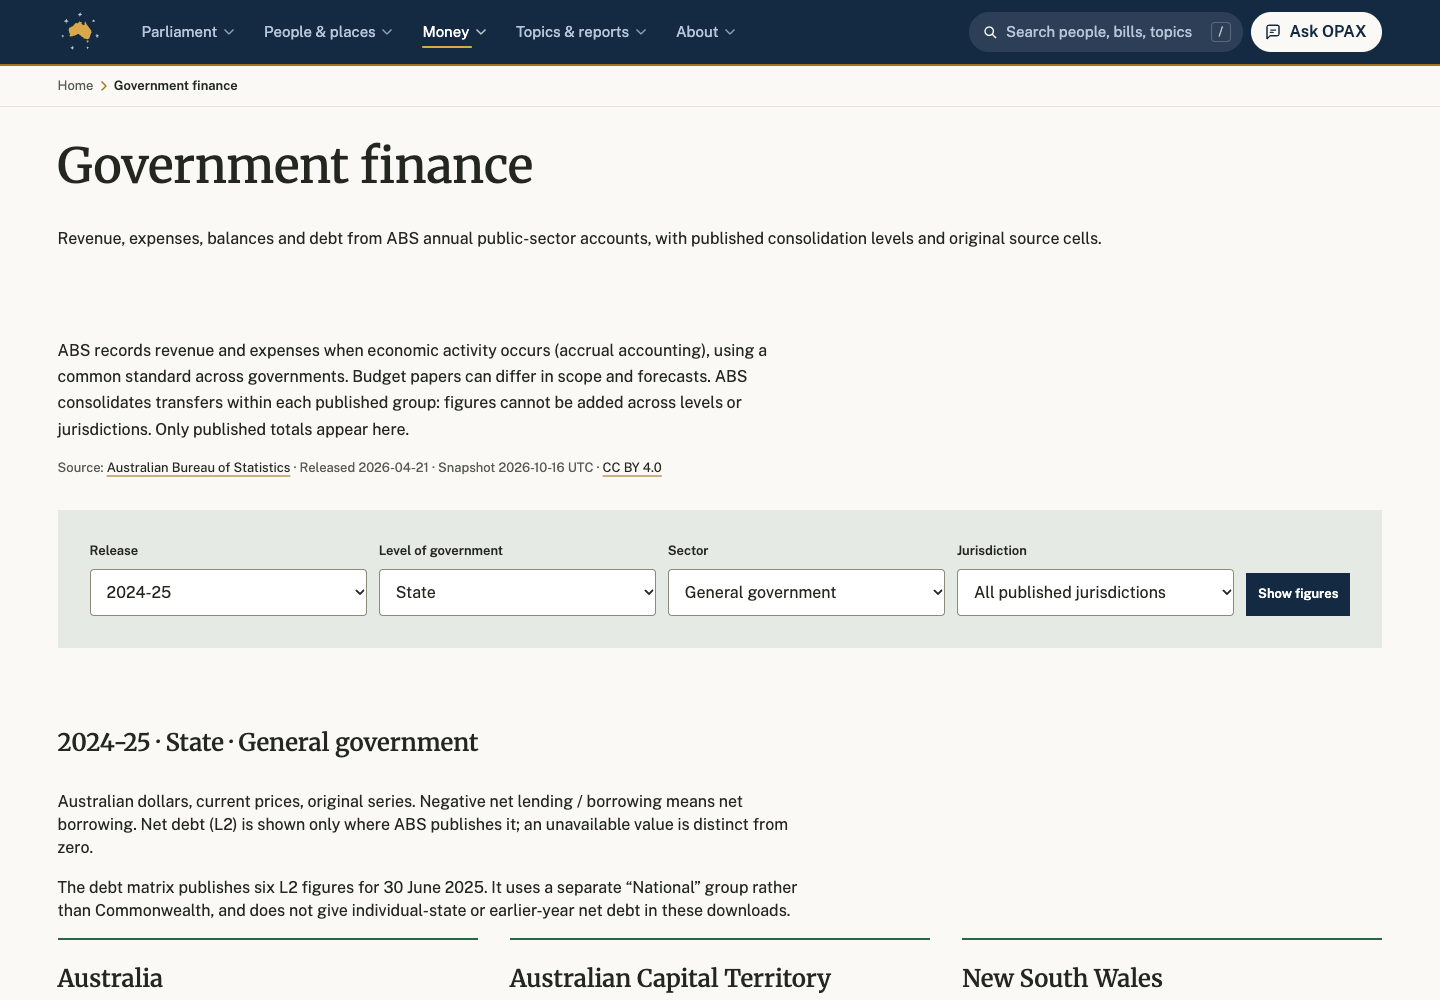
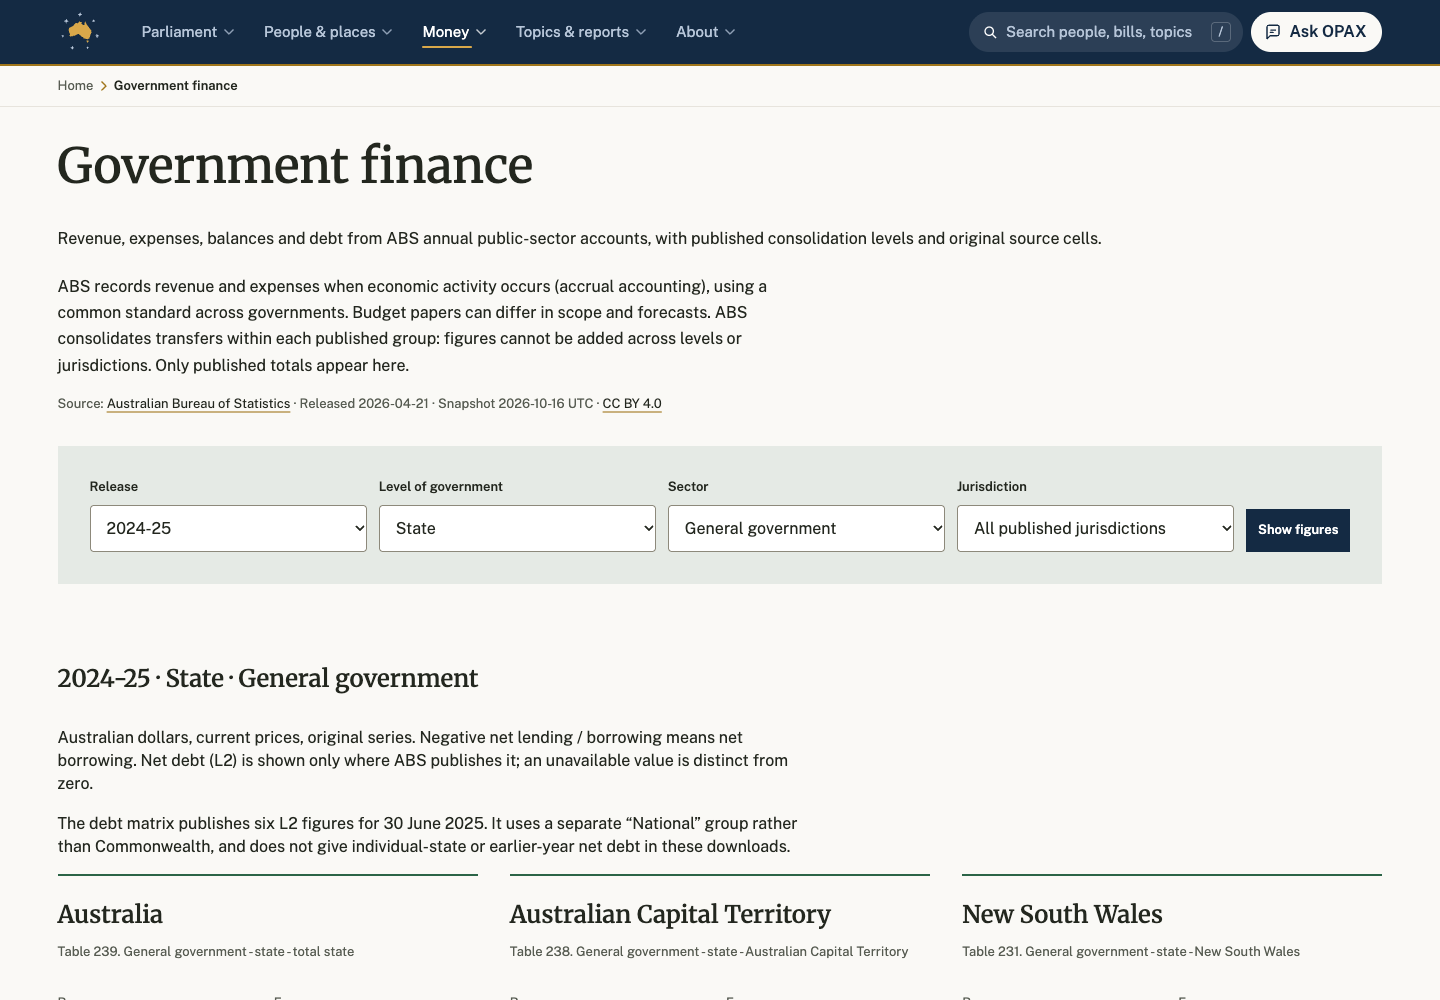
Fix GFS phone table and dependent selectors

diff --git a/portal/src/government-finance.ts b/portal/src/government-finance.ts
@@ -59,15 +59,28 @@ export async function governmentFinancePage(url:URL,read:Read,block:Block){
   try{h=await read()}catch{return error(503,'The reviewed government finance snapshot is unavailable.')}
   const all=clearedGovernmentFinance(h)
   if(!all.length)return error(503,'The reviewed government finance snapshot is unavailable.')
-  const choices=(key:keyof GFSRow)=>[...new Set(all.map(r=>String(r[key])))].sort()
-  const releases=choices('release'),levels=choices('level_of_government'),sectors=choices('sector')
-  const release=url.searchParams.get('release')||releases.at(-1)!,level=url.searchParams.get('level')||'State',sector=url.searchParams.get('sector')||'General government'
-  const jurisdiction=url.searchParams.get('jurisdiction')||''
-  const jurisdictions=[...new Set(all.filter(r=>r.release===release && r.level_of_government===level && r.sector===sector).map(r=>r.jurisdiction))].sort()
+  const choices=(rows:GFSRow[],key:keyof GFSRow)=>[...new Set(rows.map(r=>String(r[key])))].sort()
+  const releases=choices(all,'release')
+  const release=url.searchParams.get('release')||releases.at(-1)!
+  const requestedLevel=url.searchParams.get('level')||'State',requestedSector=url.searchParams.get('sector')||'General government'
+  const requestedJurisdiction=url.searchParams.get('jurisdiction')||''
   const tableKeys=['q','sort','page','pageSize','f.reference_year','f.measure'].map(k=>'gfs.'+k)
   const allowed=new Set(['release','level','sector','jurisdiction',...tableKeys])
-  if([...url.searchParams.keys()].some(k=>!allowed.has(k)||url.searchParams.getAll(k).length!==1) || !releases.includes(release) || !levels.includes(level) || !sectors.includes(sector)
-    || jurisdiction && !jurisdictions.includes(jurisdiction))return error(400,'Choose a published release, government level, jurisdiction and sector.')
+  if([...url.searchParams.keys()].some(k=>!allowed.has(k)||url.searchParams.getAll(k).length!==1) || !releases.includes(release)
+    || url.searchParams.has('level') && !choices(all,'level_of_government').includes(requestedLevel)
+    || url.searchParams.has('sector') && !choices(all,'sector').includes(requestedSector)
+    || requestedJurisdiction && !choices(all,'jurisdiction').includes(requestedJurisdiction))return error(400,'Choose a published release, government level, jurisdiction and sector.')
+  // Higher-level choices take priority. A previously published lower-level
+  // selection can become stale after a release/level change; reset it in order.
+  const released=all.filter(r=>r.release===release),levels=choices(released,'level_of_government')
+  const level=levels.includes(requestedLevel)?requestedLevel:levels[0]
+  const levelRows=released.filter(r=>r.level_of_government===level),sectors=choices(levelRows,'sector')
+  const sector=sectors.includes(requestedSector)?requestedSector:sectors[0]
+  const sectorRows=levelRows.filter(r=>r.sector===sector),jurisdictions=choices(sectorRows,'jurisdiction')
+  const jurisdiction=!requestedJurisdiction?'':jurisdictions.includes(requestedJurisdiction)?requestedJurisdiction:jurisdictions[0]
+  if(level!==requestedLevel)url.searchParams.set('level',level)
+  if(sector!==requestedSector)url.searchParams.set('sector',sector)
+  if(jurisdiction!==requestedJurisdiction)url.searchParams.set('jurisdiction',jurisdiction)
   const selected=all.filter(r=>r.release===release && r.level_of_government===level && r.sector===sector && (!jurisdiction || r.jurisdiction===jurisdiction))
   const latest=[...new Set(selected.map(r=>r.reference_year))].sort().at(-1)
   const latestRows=selected.filter(r=>r.reference_year===latest)
@@ -77,7 +90,7 @@ export async function governmentFinancePage(url:URL,read:Read,block:Block){
   const cards=[...new Set(latestRows.map(r=>r.jurisdiction))].sort().map(j=>{
     const rows=latestRows.filter(r=>r.jurisdiction===j)
     const sources=[...new Map(rows.map(r=>[r.workbook,r])).values()]
-    return `<article class="gfs-jurisdiction"><h3>${esc(j)}</h3><p class="gfs-receipt">${esc((rows.find(r=>r.measure==='revenue')||rows[0]).consolidation)}</p><dl>${Object.entries(names).map(([key,label])=>{const r=rows.find(r=>r.measure===key);return `<div><dt>${label}</dt><dd>${r&&r.value!==null?cellLink(r):'Not published'}</dd></div>`}).join('')}</dl>${receipt(h,releaseDate)}<details><summary>Original cells and source hashes</summary>${rows.map(r=>`<p><a href="${esc(r.source_url)}">${esc(names[r.measure])} · ${esc(r.sheet+'!'+r.cell)}</a></p>`).join('')}${sources.map(r=>`<p>${esc(r.workbook)} · Snapshot ${esc(r.snapshot)}<br>SHA-256 ${esc(r.sha256)}</p>`).join('')}</details></article>`
+    return `<article class="gfs-jurisdiction"><h3>${esc(j)}</h3><p class="gfs-receipt">${esc((rows.find(r=>r.measure==='revenue')||rows[0]).consolidation)}</p><dl>${Object.entries(names).flatMap(([key,label])=>{const r=rows.find(r=>r.measure===key);return r?[`<div><dt>${label}</dt><dd>${r.value!==null?cellLink(r):'Not published'}</dd></div>`]:[]}).join('')}</dl>${receipt(h,releaseDate)}<details><summary>Original cells and source hashes</summary>${rows.map(r=>`<p><a href="${esc(r.source_url)}">${esc(names[r.measure])} · ${esc(r.sheet+'!'+r.cell)}</a></p>`).join('')}${sources.map(r=>`<p>${esc(r.workbook)} · Snapshot ${esc(r.snapshot)}<br>SHA-256 ${esc(r.sha256)}</p>`).join('')}</details></article>`
   }).join('')
   const rows=governmentFinanceRows({...h,rows:selected}),config=governmentFinanceTableConfig(rows),guarded=guardTableURL(config,url)
   if(guarded.rejected)return error(400,'Choose one value for each table filter.')

diff --git a/portal/public/government-finance.css b/portal/public/government-finance.css
@@ -1,6 +1,8 @@
-.gfs-content{padding-block:var(--space-group);color:var(--ink)}
+#prerender:has(+ .gfs-content){padding-bottom:var(--space-row)}
+#prerender:has(+ .gfs-content)>p:last-child{margin-bottom:0}
+.gfs-content{padding-block:var(--space-row);color:var(--ink)}
 .gfs-content>p,.gfs-content section>p{max-width:76ch}
-.gfs-lede{font:var(--type-body);line-height:1.65}
+.gfs-lede{font:var(--type-body);line-height:1.65;margin-top:0}
 .gfs-content section{margin-block:var(--space-section)}
 .gfs-content h2{font:var(--type-heading);margin-block:var(--space-group)}
 .gfs-filters{display:flex;flex-wrap:wrap;align-items:end;gap:var(--space-row);padding:var(--space-group);background:var(--money-wash);margin-block:var(--space-group)}
@@ -18,3 +20,18 @@
 .gfs-jurisdiction details p{margin-block:var(--space-row)}
 .gfs-jurisdiction summary{cursor:pointer;min-height:2.75rem;display:flex;align-items:center;text-decoration:underline}
 @media(max-width:600px){.gfs-filters{padding:var(--space-row)}.gfs-filters label,.gfs-filters button{flex-basis:100%}.gfs-jurisdiction dd{font-size:1.3rem}}
+/* Keep the shared table, controls and CSV. On phones each published row puts
+   its measure and amount first, with the jurisdiction/year/source below. */
+@media(width < 600px){
+  [data-register-table="government-finance-table"] .dt-scroll{overflow-x:visible}
+  #government-finance-table{display:block;width:100%;min-width:0}
+  #government-finance-table caption{display:block}
+  #government-finance-table thead{display:none}
+  #government-finance-table tbody{display:block;width:100%}
+  #government-finance-table tbody tr{display:grid;grid-template-columns:minmax(0,1fr) max-content;gap:var(--space-tight) var(--space-row);padding:var(--space-block);border-bottom:var(--border-hairline) solid var(--divider-subtle);background:var(--paper-raised)}
+  #government-finance-table td{display:block;grid-column:1/-1;position:static;min-width:0;max-width:100%;padding:0;border:0;box-shadow:none;white-space:normal;text-align:start;overflow-wrap:anywhere}
+  #government-finance-table td::before{content:attr(data-label);display:block;font:var(--type-fine);color:var(--ink-soft)}
+  #government-finance-table td[data-label="Measure"]{grid-area:1/1;font:var(--type-strong)}
+  #government-finance-table td[data-label="Measure"]::before{display:none}
+  #government-finance-table td[data-label="Amount (AUD)"]{grid-area:1/2;text-align:end;white-space:nowrap;font:var(--type-strong)}
+}

diff --git a/docs/coverage/abs-gfs/fix-round-1.md b/docs/coverage/abs-gfs/fix-round-1.md
@@ -1,0 +1,30 @@
+# ABS GFS fix round 1
+
+Review baseline: `15f86fe11cdd72663621060cb06fe12466253d32`. All work is local on `coverage/abs-gfs`. No new ABS requests, production writes, nightly, push or deploy. All eight staged GFS files, including the numerical series, source receipts and licence review, are byte-identical to that baseline.
+
+1. **P2 mobile table** — `portal/public/government-finance.css:25` gives only GFS a phone layout using the existing shared table DOM: measure and amount lead each row, then jurisdiction, fiscal year, release and original-cell link. Other register tables and CSV fields are unchanged. `portal/test/government-finance-browser.mjs:12` measures the table and its scroll container and checks every rendered amount cell's horizontal bounds. At 390px the table, scroll width and container are all **350px**; all **25** amounts are inside the container, with JavaScript enabled and disabled. Desktop keeps six columns.
+2. **P2 dependent selectors** — `portal/src/government-finance.ts:75` derives levels from the release, sectors from the selected release/level, and jurisdictions from that release/level/sector. A known stale lower-level choice resets to the first published choice. Higher-level selections take priority; unknown values and repeated parameters still return 400. Changing NSW to Commonwealth selects Australia and returns **50** source observations. National + Total public sector resets to General government and returns its **one** published L2 observation. Both transitions pass server-render and real browser tests.
+3. **P3 absent measures** — `portal/src/government-finance.ts:93` emits a headline field only when that card has an observation. It retains **Not published** for a genuine null source cell, and a published zero remains zero. The National card contains just its published Net debt (L2) field.
+4. **P3 spacing** — `portal/public/government-finance.css:1` replaces the stacked summary margin/prerender padding/content padding/lede margin with the register row-spacing tokens. The measured summary-to-lede gap is **24px** at both 390 and 1440, down from the reviewed 88px.
+
+## Gates
+
+All passed:
+
+- `python3 -m unittest discover -s tests -p test_abs_gfs.py`: **12 passed**.
+- `python3 -m unittest discover -s tests -p test_promote_hub_data.py`: **14 passed**.
+- `node --test test/government-finance.test.mjs test/register-tables.test.mjs test/vic-gifts.test.mjs test/state-bills.test.mjs`: **35 passed**, zero failures/skips.
+- `node test/government-finance-browser.mjs`: 390/1440 server rendering, table/container geometry, amount visibility, selector transitions, absent measures, spacing, filtering, CSV provenance and a JavaScript-disabled phone table. Browser external requests are blocked; Worker assets come from the staged snapshot in memory.
+- `npx tsc --noEmit -p .` and `npm run -s check`.
+- `npx wrangler deploy --dry-run --outdir private/abs-gfs/fix1-worker-dry-run`.
+- `python3 scripts/promote_hub_data.py abs-gfs --dry-run --votes-reference 15f86fe11` (no output writes).
[1 lines of base64/hex data omitted]
+
+## Current screenshots and evidence
+
+| Width | Top of page | Table |
+| --- | --- | --- |
+| 390 | [Top](../../../portal/private/abs-gfs/government-finance-390-viewport.png) | [Table](../../../portal/private/abs-gfs/government-finance-390-table.png) |
+| 1440 | [Top](../../../portal/private/abs-gfs/government-finance-1440-viewport.png) | [Table](../../../portal/private/abs-gfs/government-finance-1440-table.png) |
+
+Full-page captures were refreshed in the same directory. [Browser measurements](../../../portal/private/abs-gfs/browser-results.json) and [validation with code/input/screenshot hashes](fix-round-1-validation.json) bind these checks to this change. The original `validation.json` remains historical and points to this current UI evidence. No native app code changed.

diff --git a/docs/coverage/abs-gfs/report.md b/docs/coverage/abs-gfs/report.md
@@ -1,5 +1,7 @@
 # ABS Government Finance Statistics annual lane
 
+UI review fixes at baseline `15f86fe11` are complete: [fix round 1 report](fix-round-1.md) and [current UI validation](fix-round-1-validation.json). Original source/number/licence findings below are unchanged.
+
 17 October 2026 Melbourne. Branch `coverage/abs-gfs`, baseline `71c3615b8`. Staged and locally verified; **no push, deploy, nightly, KB/D1 write or live JSON write**. The orchestrator owns promotion and shipping.
 
 The [2024–25 release](https://www.abs.gov.au/statistics/economy/government/government-finance-statistics-annual/2024-25) was published **21 April 2026**. It links **81 XLSX workbooks / 299 tables**, all acquired. Reference years are **2015–16 through 2024–25**; debt-matrix stock date is **30 June 2025**. There is one release vintage: earlier reference years retain `release: 2024-25`, rather than being represented as earlier release vintages. No full historical-release inventory is claimed.
